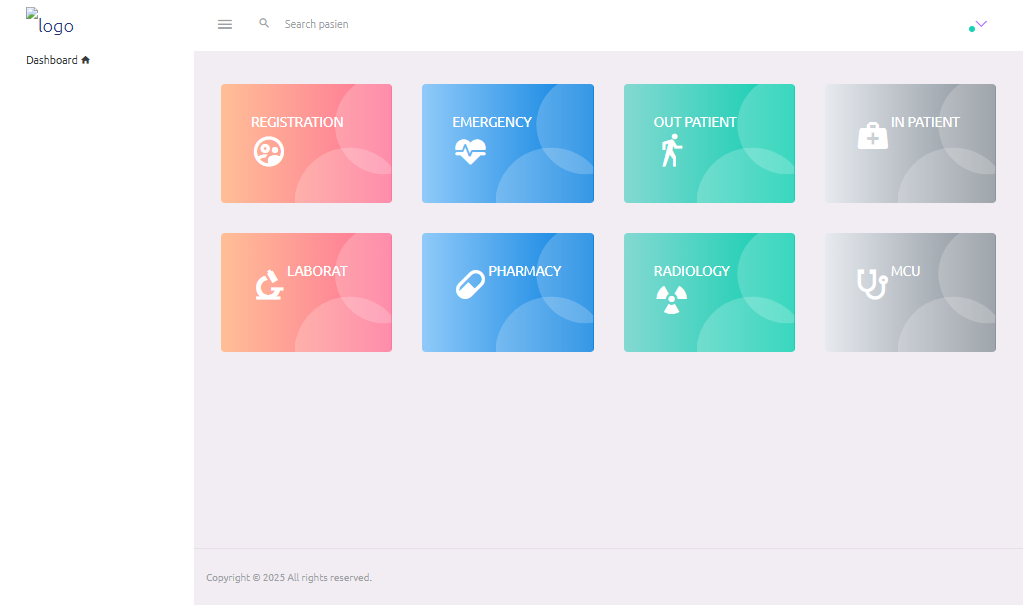
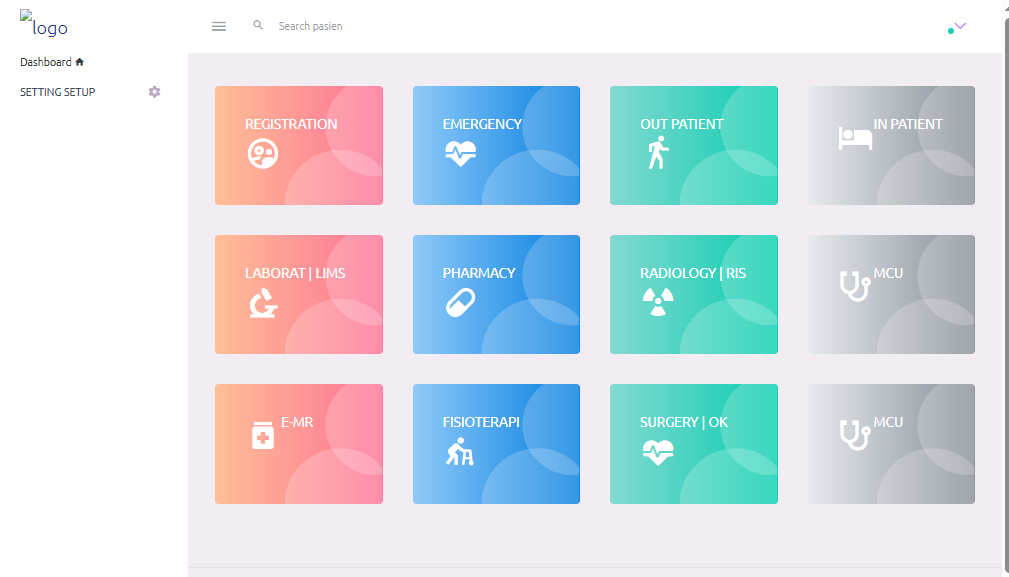
update17102025

diff --git a/resources/views/dashboard.blade.php b/resources/views/dashboard.blade.php
@@ -206,13 +206,13 @@
                   </li>
                 </ul>
               </div>
-            </li>
-            <li class="nav-item">
-              <a class="nav-link" href="../../docs/documentation.html" target="_blank">
-                <span class="menu-title">Documentation</span>
-                <i class="mdi mdi-file-document-box menu-icon"></i>
-              </a>
             </li>-->
+            <li class="nav-item">
+              <a class="nav-link" href="#" target="_blank">
+                <span class="menu-title">SETTING SETUP</span>
+                <i class="mdi mdi-cog menu-icon"></i>
+              </a>
+            </li>
           </ul>
         </nav>
         <!-- partial -->
@@ -258,7 +258,7 @@
                 <div class="card bg-gradient-secondary card-img-holder text-white">
                   <div class="card-body">
                     <img src="assets/images/dashboard/circle.svg" class="card-img-absolute" alt="circle-image" />
-                    <h4 class="font-weight-normal mb-3">IN PATIENT <i class="mdi mdi-medical-bag mdi-48px float-start"></i>
+                    <h4 class="font-weight-normal mb-3">IN PATIENT <i class="mdi mdi-bed mdi-48px float-start"></i>
                     </h4>
                    
                   </div>
@@ -339,7 +339,7 @@
                 <div class="card bg-gradient-success card-img-holder text-white">
                   <div class="card-body">
                     <img src="assets/images/dashboard/circle.svg" class="card-img-absolute" alt="circle-image" />
-                    <h4 class="font-weight-normal mb-3">RADIOLOGY | RIS <i class="mdi mdi-radioactive mdi-48px float-start"></i>
+                    <h4 class="font-weight-normal mb-3">SURGERY | OK <i class="mdi mdi-heart-pulse mdi-48px float-start"></i>
                     </h4>
                     
                   </div>
